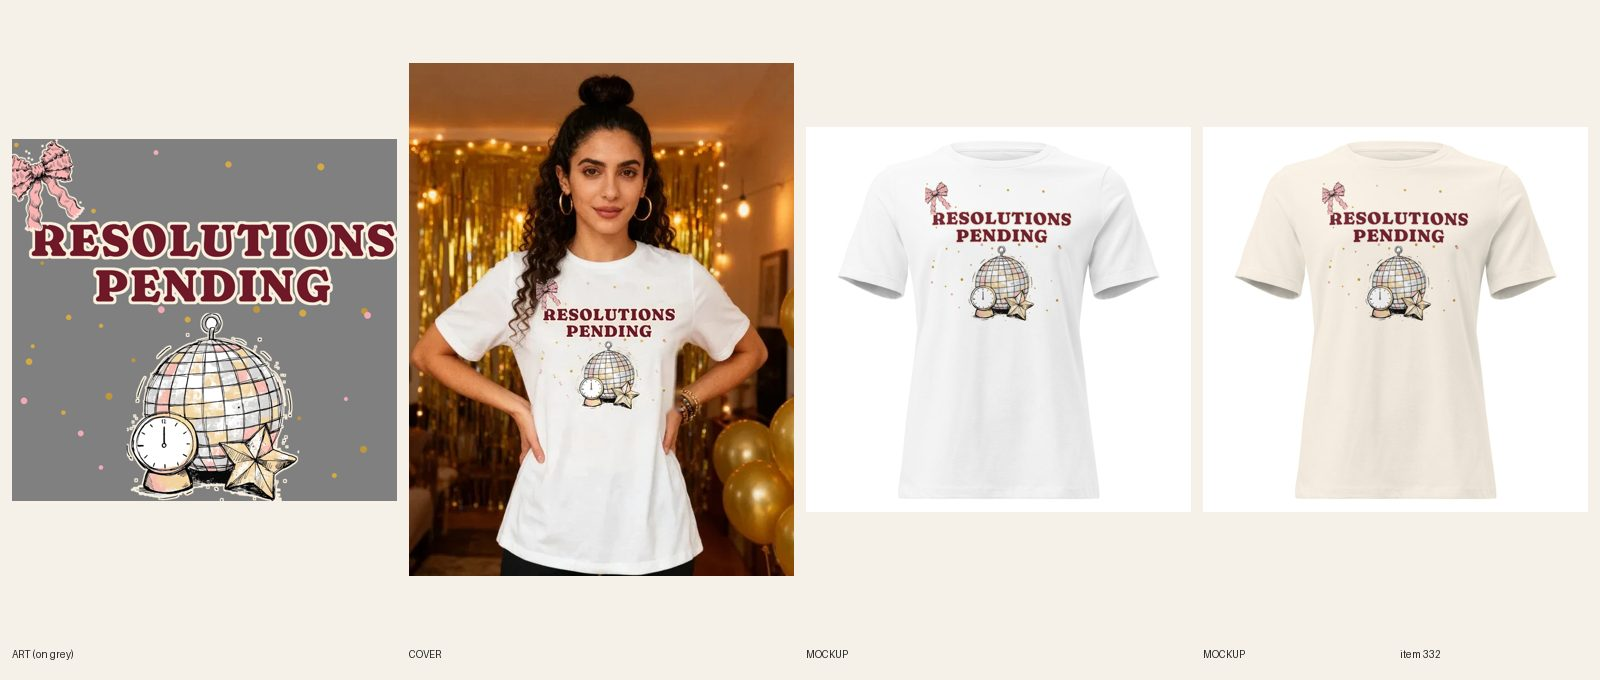
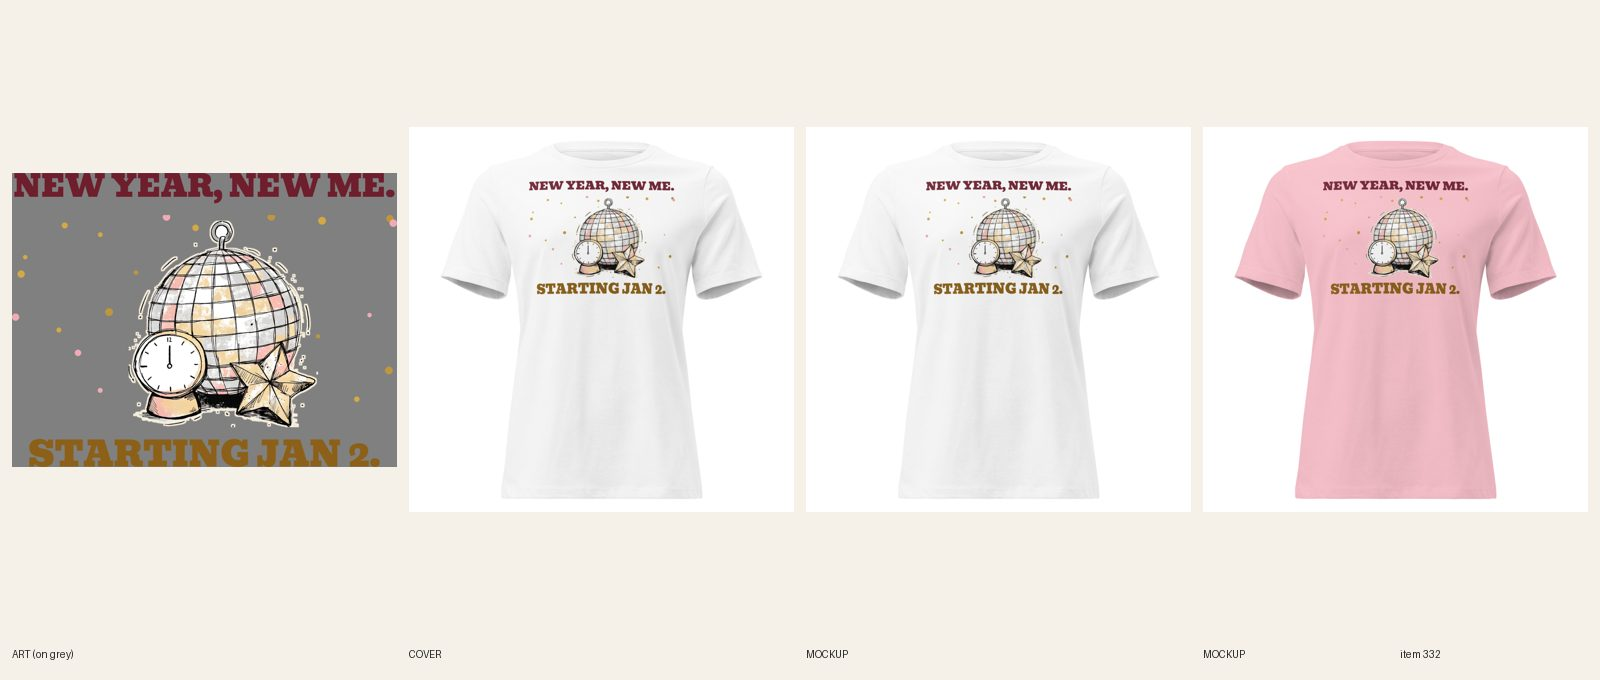
[A] review 332 New Year New Me tee (line+type redo)
Claude-Session: https://claude.ai/code/session_01LaaEYpKaSBZd9opL7Tpo7i

diff --git a/docs/pipeline/332-nye-resolutions-pending.md b/docs/pipeline/332-nye-resolutions-pending.md
@@ -1,4 +1,4 @@
-status: BUILDING [A] 2026-10-20 05:44 UTC
+status: REVIEW
 lane: A
 type: new
 id: 332
@@ -33,3 +33,4 @@ kd: 31
 - 2026-10-18 06:45 UTC builder [A]: REVIEW: cover only: new print composited over the hair (R6.9), bow and R clear of curls, every word reads; sheet remade.
 - 2026-10-18 07:22 UTC director: approved from docs/review/332.jpg; ACTIVE + Online Store + Headless + Google & YouTube. Copy fix: description, meta and FAQs still said confetti-dot pattern-filled letters with a black outline; rewritten to burgundy letters with a cream edge, disco ball/clock/star beneath PENDING (R8.3). audit --handle PASS (0 warn). LIVE.
 - 2026-10-18 17:22 UTC director: QUALITY RESET grade C (new line + type), REDO. The product stays ACTIVE (same handle, URL, title keyword). 1. Line (R3.12, quality-reset 'Lines'): "RESOLUTIONS / PENDING": Mild aside, no laugh. Write 5 candidates, keep the one a stranger laughs at in 3 seconds without backstory; kill lines that only describe the picture; if none of the 5 is funny, PARK it. 2. Quality reset type bar (docs/backlog/quality-reset.md, 'The new bar'): headline at least 90% of the art width, heavy, colors pulled from the art; second line at least 45% of the headline's height, never a thin script on a dark or mid garment; use the lettering as a shape (arch, stacked lockup, words breaking into the art), not a plain bar above and a script line below; no font used on more than 1 in 6 of the last 30 designs. 3. Keep the art if it carries the new line, else one new illustration (R4/R5). New print means a new cover per R6.10, copy line one rewritten for the new joke (R8.3), and a fresh review sheet (R7.7). While quality-reset.md says PAUSED, only lane A builds, and only the samples step 2 names.
+- 2026-10-20 06:11 UTC builder [A]: REDO grade C done (new line + type). Line: NEW YEAR, NEW ME. / STARTING JAN 2. (5 candidates; the January 2 punchline kept; title and handle unchanged). Same disco ball + midnight clock + star art with its confetti (old burgundy lettering and the corner bow dropped, 3352x1680), Bevan both lines at full print width (3259 / 3005 px, second 93% of headline height), deep burgundy + gold-brown, lockup 3300x2519, FW 1500 TOP 75. One dark-ink file on all five light colors (no cream fill): 1090193042. Back logo 1080398177 kept. Relinked 30/30 verified. 5 fronts replaced in place (fileUpdate, alts updated), phone-size read ok. Copy: Story line one, art sentence (bow removed), color FAQ updated; SEO title/meta updated; 5 FAQs, Dec 20 order-by kept; no R8.3 opener. Cover: handle added to retired-covers.json (plain product shot). fal $0. audit --handle PASS; astro build ok. Sheet docs/review/332.jpg.

diff --git a/docs/intake-log.md b/docs/intake-log.md
@@ -1,3 +1,5 @@
+RUNNING helper since 2026-10-20 05:44 UTC
+2026-10-20 06:11 UTC — [A] Builder run: redid #332 Women's NYE Resolutions Pending tee (line+type: NEW YEAR, NEW ME. / STARTING JAN 2., same disco ball art, Bevan full width, file 1090193042, 30/30 relinked, 5 fronts replaced in place, copy updated, plain product shot). REVIEW. fal $0.
 RUNNING lane B since 2026-10-20 05:30 UTC
 2026-10-20 06:05 UTC — [B] Builder run: redid #440 round 2 (OUT OF OFFICE. / IN THE MUD., punch widened to headline width (Navy + Dust; Dust file copied as -sand name). headline 3600 px / punch 3600 px, FW 1550 TOP 0 on the oversized blank (9.8 in tall, catalog 892)). REVIEW. fal $0.
 2026-10-20 06:04 UTC — [B] Builder run: redid #362 round 2 (MISSED THE PLAY. / SEEDS WERE GOOD., punch widened to headline width. headline 3600 px / punch 3600 px). REVIEW. fal $0.
